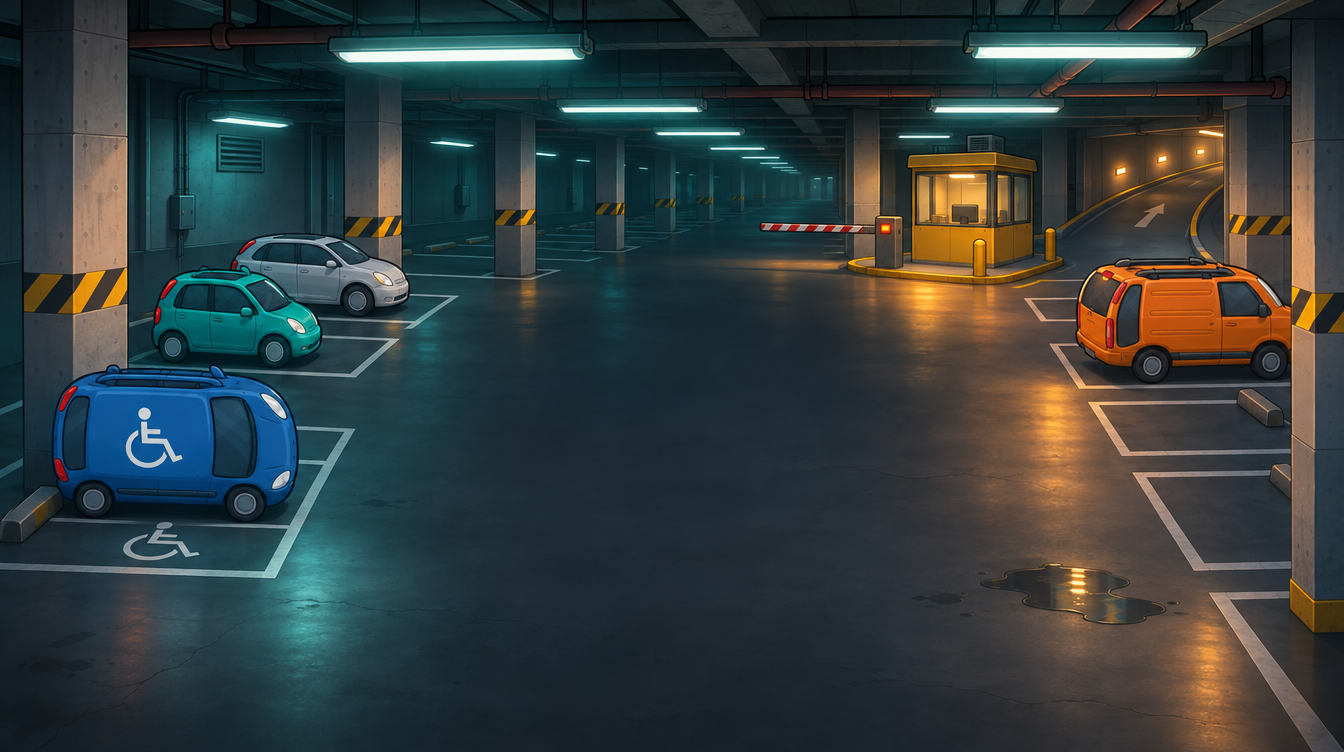
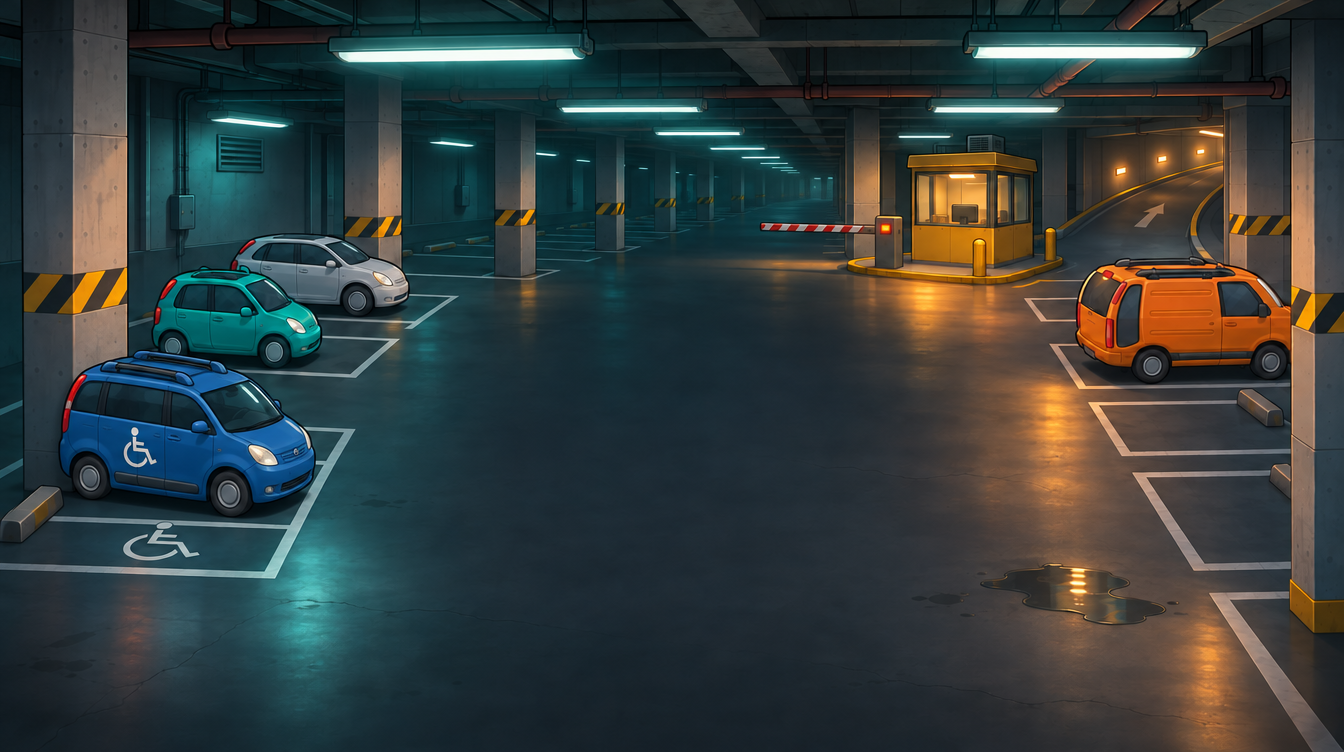
art(godot): fix sideways accessible van in the menu key art
The blue accessible minivan was drawn in flat side profile while the
other parked cars sit at a three-quarter angle. Edited with Higgsfield
(GPT Image 2.6, high, original as reference) to match; the rest of the
scene is unchanged.

Claude-Session: https://claude.ai/code/session_01LYf7qsBeo5kTP6r7HrEMao

diff --git a/godot/README.md b/godot/README.md
@@ -295,9 +295,11 @@ script:
 | `environment_sheet.png` | `assets/tiles/` (seamless concrete and asphalt, wall) and `assets/props/` (gate, oil stain, crack, pillar) |
 | `menu_keyart.png` | `assets/ui/menu_background.jpg` |
 
-The full set cost **3 credits**: two low-quality vehicle tests at 0.25 each, two
-medium sheets at 0.50 each, and the high-quality key art at 1.50. The first test
-came out in a three-quarter view, so the second one forced a strict overhead view.
+The full set cost **4.5 credits**: two low-quality vehicle tests at 0.25 each, two
+medium sheets at 0.50 each, and the high-quality key art at 1.50, plus one 1.50
+edit of the key art. The first vehicle test came out in a three-quarter view, so
+the second one forced a strict overhead view. The key-art edit turned the blue
+accessible van, which had been drawn side-on, to match the other parked cars.
 
 - **Replace an image:** drop a new sheet into `assets/source/` with the same file
   name, then run `python3 godot/tools/process_art.py` (needs `pip install pillow`).
